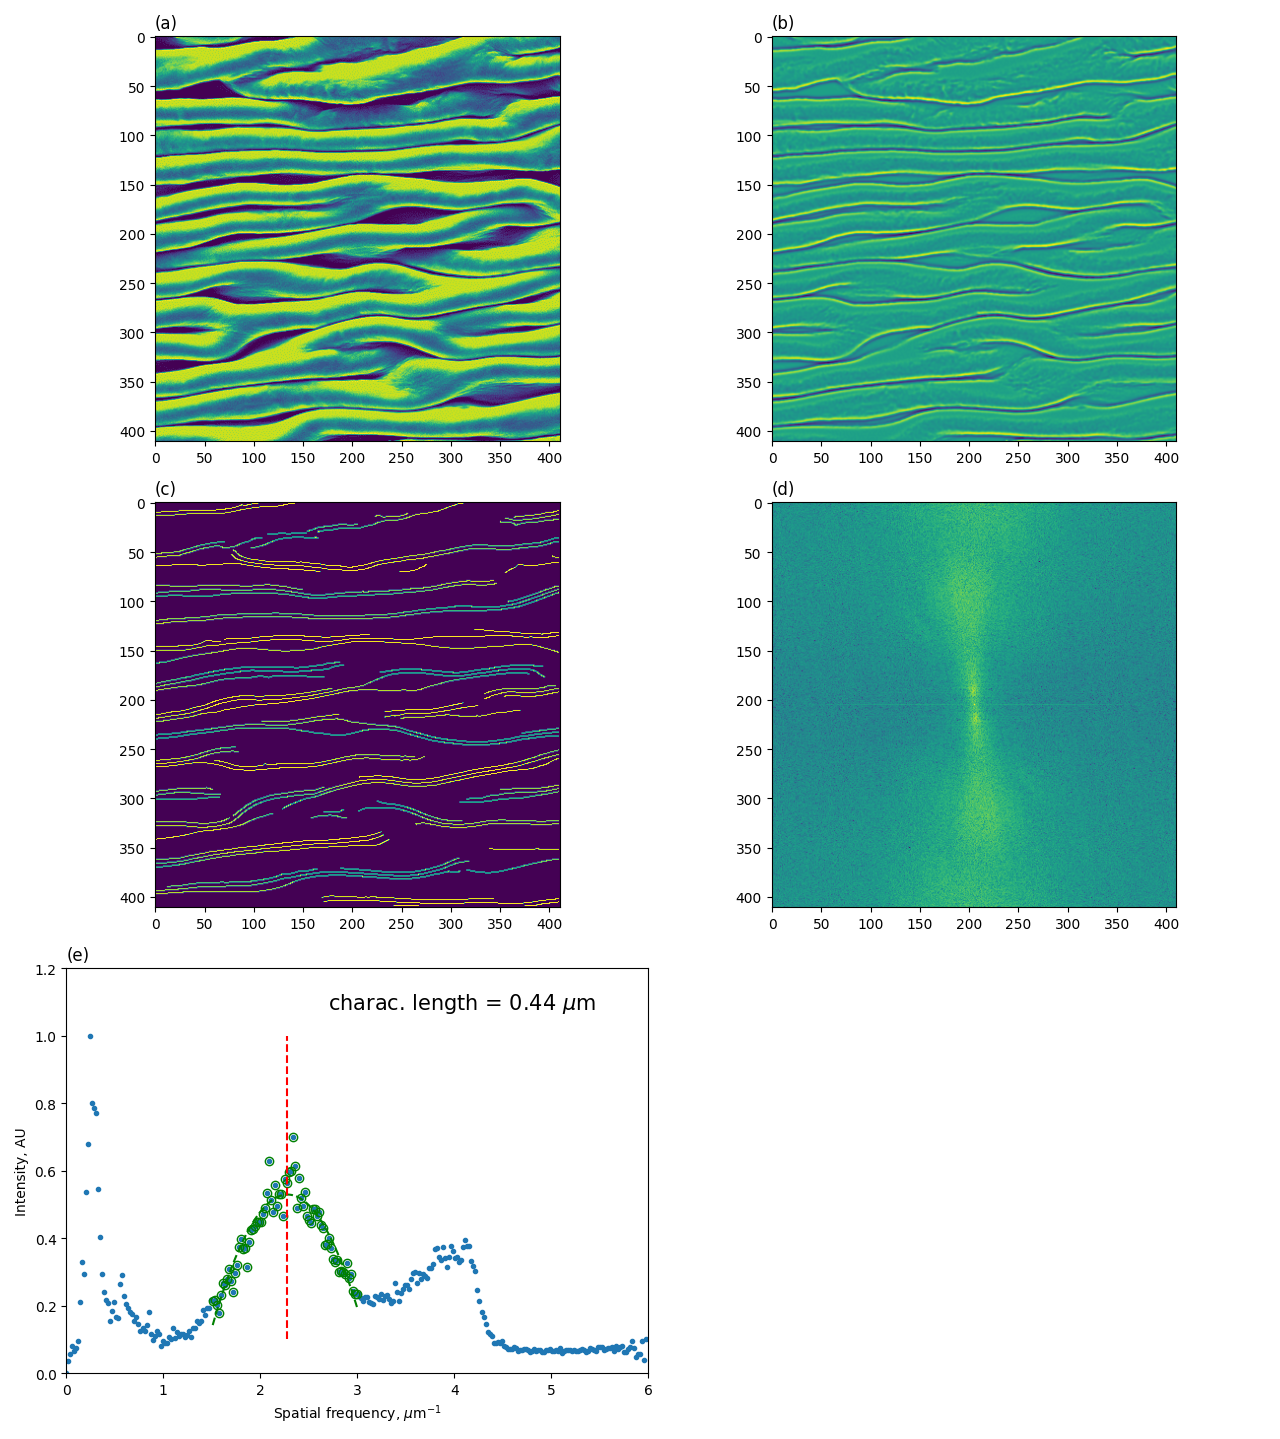
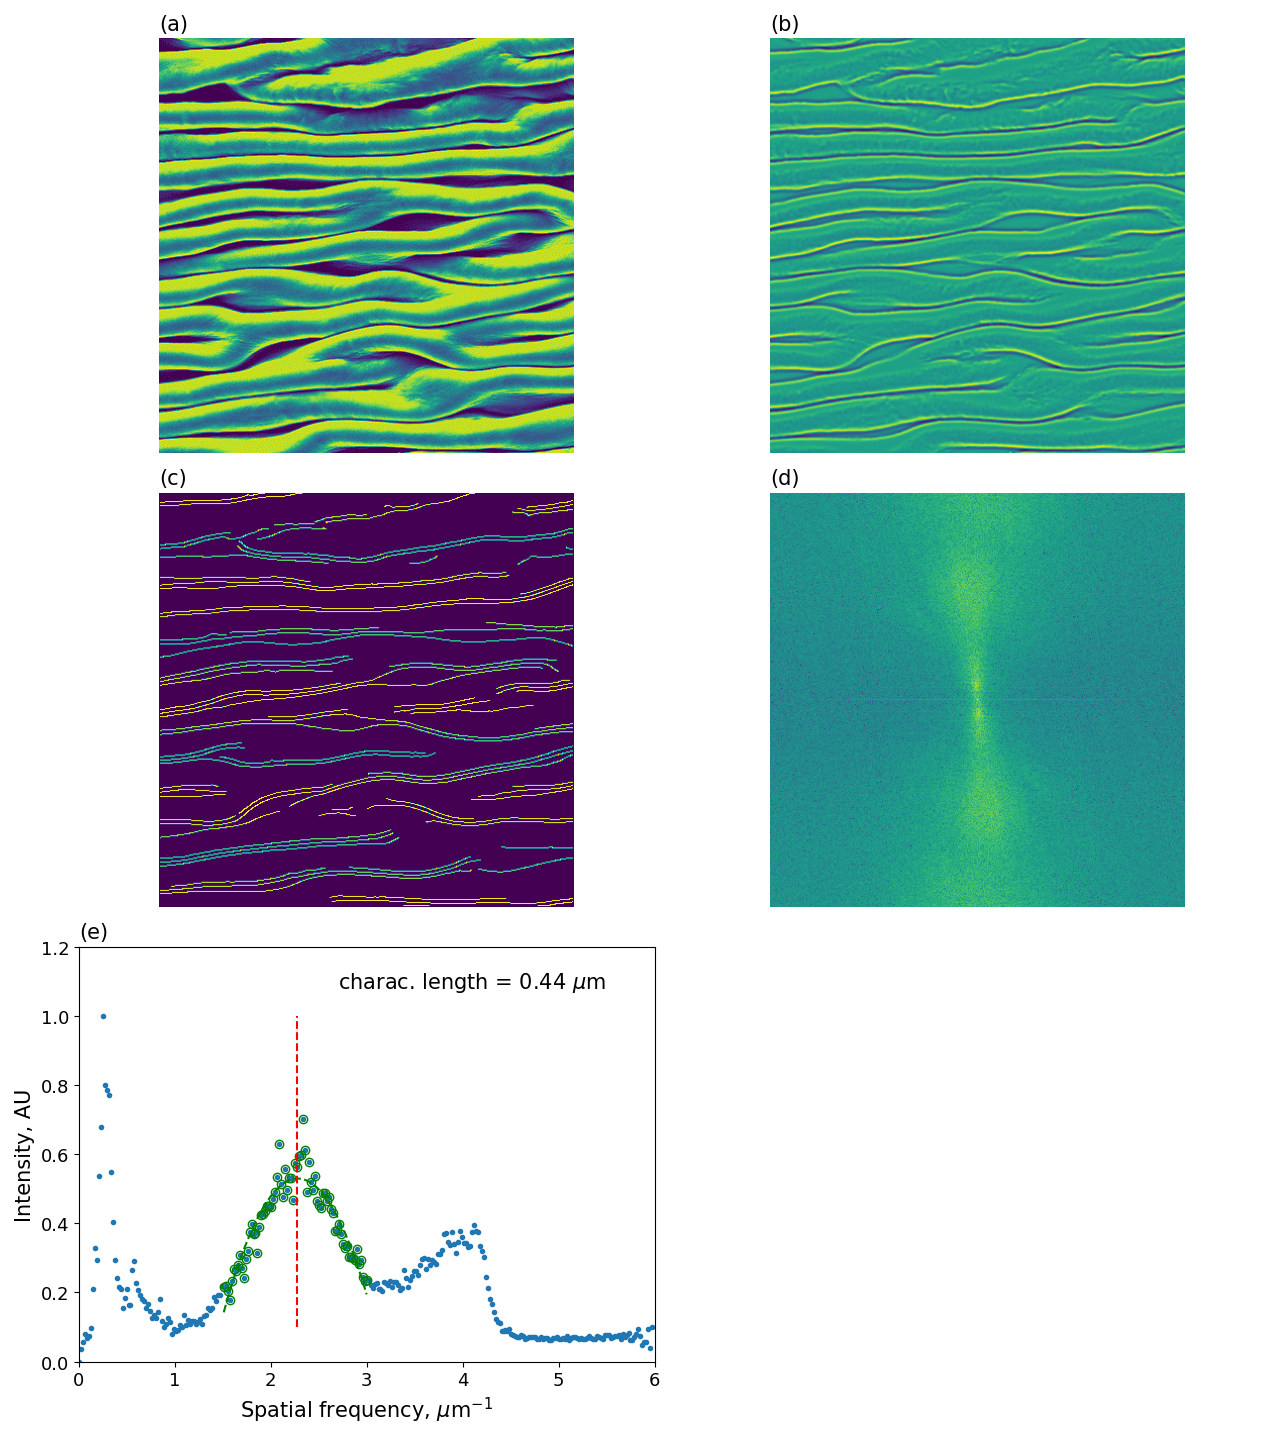
updated figures for kdf_uniaxial test case

diff --git a/test_cases/experimental_surface_images/cnc-poegma_uniaxial_nanowrinkled/src/characteristic_length.py b/test_cases/experimental_surface_images/cnc-poegma_uniaxial_nanowrinkled/src/characteristic_length.py
@@ -191,60 +191,163 @@ LINEWIDTH = 3; ROLLWINDOW = 100                 # plot spec
 NROWS = 3; NCOLS = 2
 f, axs = plt.subplots(nrows=NROWS,ncols=NCOLS,
                       figsize=(NCOLS*FIGWIDTH,NROWS*FIGHEIGHT))
-axs[0,0].imshow(image_sq)
-axs[0,0].set_title("(a)", loc='left')
-# axs[0,0].set_title("Squared image")
+axs[0,0].imshow(image_sq) # squared image
+axs[0,0].set_title("(a)", loc='left', fontsize=TITLEFONT)
+axs[0,0].axis('off')
 
-axs[0,1].imshow(filtered_image_sq)
-axs[0,1].set_title("(b)", loc='left')
-# axs[0,1].set_title("Squared filtered image")
+axs[0,1].imshow(filtered_image_sq) # squared DofG filtered image
+axs[0,1].set_title("(b)", loc='left', fontsize=TITLEFONT)
+axs[0,1].axis('off')
 
-axs[1,0].imshow(filtered_edges_square)
-axs[1,0].set_title("(c)", loc='left')
-# axs[1,0].set_title("Squared Canny edge detected image")
+axs[1,0].imshow(filtered_edges_square) # squared Canny edge detected image
+axs[1,0].set_title("(c)", loc='left', fontsize=TITLEFONT)
+axs[1,0].axis('off')
 
-axs[1,1].imshow(np.log(psd2D))
-axs[1,1].set_title("(d)", loc='left')
-# axs[1,1].set_title("Center-shifted 2D Power Spectral Density")
+axs[1,1].imshow(np.log(psd2D)) # squared center-shifted 2D PSD
+axs[1,1].set_title("(d)", loc='left', fontsize=TITLEFONT)
+axs[1,1].axis('off')
 
 if int(POP_NUM == 2):
     axs[2,0].plot(1/lam[:rasp_length],rasp_norm_au,linestyle='none',marker='.')
     axs[2,0].plot(x_pop1,y_pop1,linestyle='none',marker='o',fillstyle='none',color='green')
     axs[2,0].plot(x_pop1,mdl_pop1,linestyle='--',color='green')
     axs[2,0].vlines(pop1_feature_size,ymin=0.1,ymax=1,linestyle='--',color='red')
-    axs[2,0].set_title("(e)", loc='left')
-    axs[2,0].set_ylabel("Intensity, AU")
-    axs[2,0].set_xlabel("Spatial frequency, $\mu$m$^{-1}$")
+    axs[2,0].set_title("(e)", loc='left', fontsize=TITLEFONT)
+    axs[2,0].set_ylabel("Intensity, AU", fontsize=TITLEFONT)
+    axs[2,0].set_xlabel("Spatial frequency, $\mu$m$^{-1}$", fontsize=TITLEFONT)
     axs[2,0].annotate('charac. length = ' + str(np.around(1/pop1_feature_size[0],decimals=3)) + ' $\mu$m',
                     xy=(0.45,0.9), xycoords='axes fraction', fontsize=TEXTFONT)
     axs[2,0].set_xlim([0,6])
     axs[2,0].set_ylim([0,1.2])
+    axs[2,0].tick_params(axis='both', which='major', labelsize=TICKSFONT)
 
     axs[2,1].plot(1/lam[:rasp_length],rasp_norm_au,linestyle='none',marker='.')
     axs[2,1].plot(x_pop2,y_pop2,linestyle='none',marker='o',fillstyle='none',color='green')
     axs[2,1].plot(x_pop2,mdl_pop2,linestyle='--',color='green')
     axs[2,1].vlines(pop2_feature_size,ymin=0.1,ymax=1,linestyle='--',color='red')
-    axs[2,1].set_title("(f)", loc='left')
-    axs[2,1].set_ylabel("Intensity, AU")
-    axs[2,1].set_xlabel("Spatial frequency, $\mu$m$^{-1}$")
+    axs[2,1].set_title("(f)", loc='left', fontsize=TITLEFONT)
+    axs[2,1].set_ylabel("Intensity, AU", fontsize=TITLEFONT)
+    axs[2,1].set_xlabel("Spatial frequency, $\mu$m$^{-1}$", fontsize=TITLEFONT)
     axs[2,1].annotate('charac. length = ' + str(np.around(1/pop2_feature_size[0],decimals=3)) + ' $\mu$m',
                     xy=(0.45,0.9), xycoords='axes fraction', fontsize=TEXTFONT)
     axs[2,1].set_xlim([0,6])
     axs[2,1].set_ylim([0,1.2])
+    axs[2,1].tick_params(axis='both', which='major', labelsize=TICKSFONT)
 else:
     axs[2,0].plot(1/lam[:rasp_length],rasp_norm_au,linestyle='none',marker='.')
     axs[2,0].plot(x_pop1,y_pop1,linestyle='none',marker='o',fillstyle='none',color='green')
     axs[2,0].plot(x_pop1,mdl_pop1,linestyle='--',color='green')
     axs[2,0].vlines(pop1_feature_size,ymin=0.1,ymax=1,linestyle='--',color='red')
-    axs[2,0].set_title("(e)", loc='left')
-    axs[2,0].set_ylabel("Intensity, AU")
-    axs[2,0].set_xlabel("Spatial frequency, $\mu$m$^{-1}$")
+    axs[2,0].set_title("(e)", loc='left', fontsize=TITLEFONT)
+    axs[2,0].set_ylabel("Intensity, AU", fontsize=TITLEFONT)
+    axs[2,0].set_xlabel("Spatial frequency, $\mu$m$^{-1}$", fontsize=TITLEFONT)
     axs[2,0].annotate('charac. length = ' + str(np.around(1/pop1_feature_size[0],decimals=3)) + ' $\mu$m',
                     xy=(0.45,0.9), xycoords='axes fraction', fontsize=TEXTFONT)
     axs[2,0].set_xlim([0,6])
     axs[2,0].set_ylim([0,1.2])
+    axs[2,0].tick_params(axis='both', which='major', labelsize=TICKSFONT)
     
     axs[2,1].axis('off')
     
 f.tight_layout()
 f.savefig("figures/" + file_name + "_summary.png")
+
+# image analysis figure
+NROWS = 2; NCOLS = 2
+f, axs = plt.subplots(nrows=NROWS,ncols=NCOLS,
+                      figsize=(NCOLS*FIGWIDTH,NROWS*FIGHEIGHT))
+axs[0,0].imshow(image_sq)
+axs[0,0].set_title("(a)", loc='left', fontsize=TITLEFONT)
+axs[0,0].axis('off')
+# axs[0,0].set_ylabel("Pixels", fontsize=TEXTFONT)
+# axs[0,0].set_xlabel("Pixels", fontsize=TEXTFONT)
+# axs[0,0].set_title("Squared image")
+
+axs[0,1].imshow(filtered_image_sq)
+axs[0,1].set_title("(b)", loc='left', fontsize=TITLEFONT)
+axs[0,1].axis('off')
+# axs[0,1].set_ylabel("Pixels", fontsize=TEXTFONT)
+# axs[0,1].set_xlabel("Pixels", fontsize=TEXTFONT)
+# axs[0,1].set_title("Squared filtered image")
+
+axs[1,0].imshow(filtered_edges_square)
+axs[1,0].set_title("(c)", loc='left', fontsize=TITLEFONT)
+axs[1,0].axis('off')
+# axs[1,0].set_ylabel("Pixels", fontsize=TEXTFONT)
+# axs[1,0].set_xlabel("Pixels", fontsize=TEXTFONT)
+# axs[1,0].set_title("Squared Canny edge detected image")
+
+axs[1,1].imshow(np.log(psd2D))
+axs[1,1].set_title("(d)", loc='left', fontsize=TITLEFONT)
+axs[1,1].axis('off')
+# axs[1,1].set_ylabel("Pixels", fontsize=TEXTFONT)
+# axs[1,1].set_xlabel("Pixels", fontsize=TEXTFONT)
+# axs[1,1].set_title("Center-shifted 2D Power Spectral Density")
+    
+f.tight_layout()
+f.savefig("figures/" + file_name + "_image_analysis.png")
+
+
+if int(POP_NUM == 2):
+    # population 1 figure
+    NROWS = 1; NCOLS = 1
+    f, axs = plt.subplots(nrows=NROWS,ncols=NCOLS,
+                        figsize=(NCOLS*FIGWIDTH,NROWS*FIGHEIGHT))
+
+    axs.plot(1/lam[:rasp_length],rasp_norm_au,linestyle='none',marker='.')
+    axs.plot(x_pop1,y_pop1,linestyle='none',marker='o',fillstyle='none',color='green')
+    axs.plot(x_pop1,mdl_pop1,linestyle='--',color='green')
+    axs.vlines(pop1_feature_size,ymin=0.1,ymax=1,linestyle='--',color='red')
+    axs.set_title("(e)", loc='left', fontsize=TITLEFONT)
+    axs.set_ylabel("Intensity, AU", fontsize=TITLEFONT)
+    axs.set_xlabel("Spatial frequency, $\mu$m$^{-1}$", fontsize=TITLEFONT)
+    axs.annotate('charac. length = ' + str(np.around(1/pop1_feature_size[0],decimals=3)) + ' $\mu$m',
+                    xy=(0.45,0.9), xycoords='axes fraction', fontsize=TEXTFONT)
+    axs.set_xlim([0,6])
+    axs.set_ylim([0,1.2])
+    
+    f.tight_layout()
+    f.savefig("figures/" + file_name + "_pop1_rasp.png")
+    
+    # population 2 figure
+    NROWS = 1; NCOLS = 1
+    f, axs = plt.subplots(nrows=NROWS,ncols=NCOLS,
+                        figsize=(NCOLS*FIGWIDTH,NROWS*FIGHEIGHT))
+
+    axs.plot(1/lam[:rasp_length],rasp_norm_au,linestyle='none',marker='.')
+    axs.plot(x_pop2,y_pop2,linestyle='none',marker='o',fillstyle='none',color='green')
+    axs.plot(x_pop2,mdl_pop2,linestyle='--',color='green')
+    axs.vlines(pop2_feature_size,ymin=0.1,ymax=1,linestyle='--',color='red')
+    axs.set_title("(f)", loc='left', fontsize=TITLEFONT)
+    axs.set_ylabel("Intensity, AU", fontsize=TITLEFONT)
+    axs.set_xlabel("Spatial frequency, $\mu$m$^{-1}$", fontsize=TITLEFONT)
+    axs.annotate('charac. length = ' + str(np.around(1/pop2_feature_size[0],decimals=3)) + ' $\mu$m',
+                    xy=(0.45,0.9), xycoords='axes fraction', fontsize=TEXTFONT)
+    axs.set_xlim([0,6])
+    axs.set_ylim([0,1.2])
+    
+    f.tight_layout()
+    f.savefig("figures/" + file_name + "_pop2_rasp.png")
+    
+else:
+    
+    # summary figure
+    NROWS = 1; NCOLS = 1
+    f, axs = plt.subplots(nrows=NROWS,ncols=NCOLS,
+                        figsize=(NCOLS*FIGWIDTH,NROWS*FIGHEIGHT))
+    
+    axs.plot(1/lam[:rasp_length],rasp_norm_au,linestyle='none',marker='.')
+    axs.plot(x_pop1,y_pop1,linestyle='none',marker='o',fillstyle='none',color='green')
+    axs.plot(x_pop1,mdl_pop1,linestyle='--',color='green')
+    axs.vlines(pop1_feature_size,ymin=0.1,ymax=1,linestyle='--',color='red')
+    axs.set_title("(e)", loc='left', fontsize=TITLEFONT)
+    axs.set_ylabel("Intensity, AU", fontsize=TITLEFONT)
+    axs.set_xlabel("Spatial frequency, $\mu$m$^{-1}$", fontsize=TITLEFONT)
+    axs.annotate('charac. length = ' + str(np.around(1/pop1_feature_size[0],decimals=3)) + ' $\mu$m',
+                    xy=(0.45,0.9), xycoords='axes fraction', fontsize=TEXTFONT)
+    axs.set_xlim([0,6])
+    axs.set_ylim([0,1.2])
+    axs.tick_params(axis='both', which='major', labelsize=TICKSFONT)
+    
+    f.tight_layout()
+    f.savefig("figures/" + file_name + "_pop1_rasp.png")
